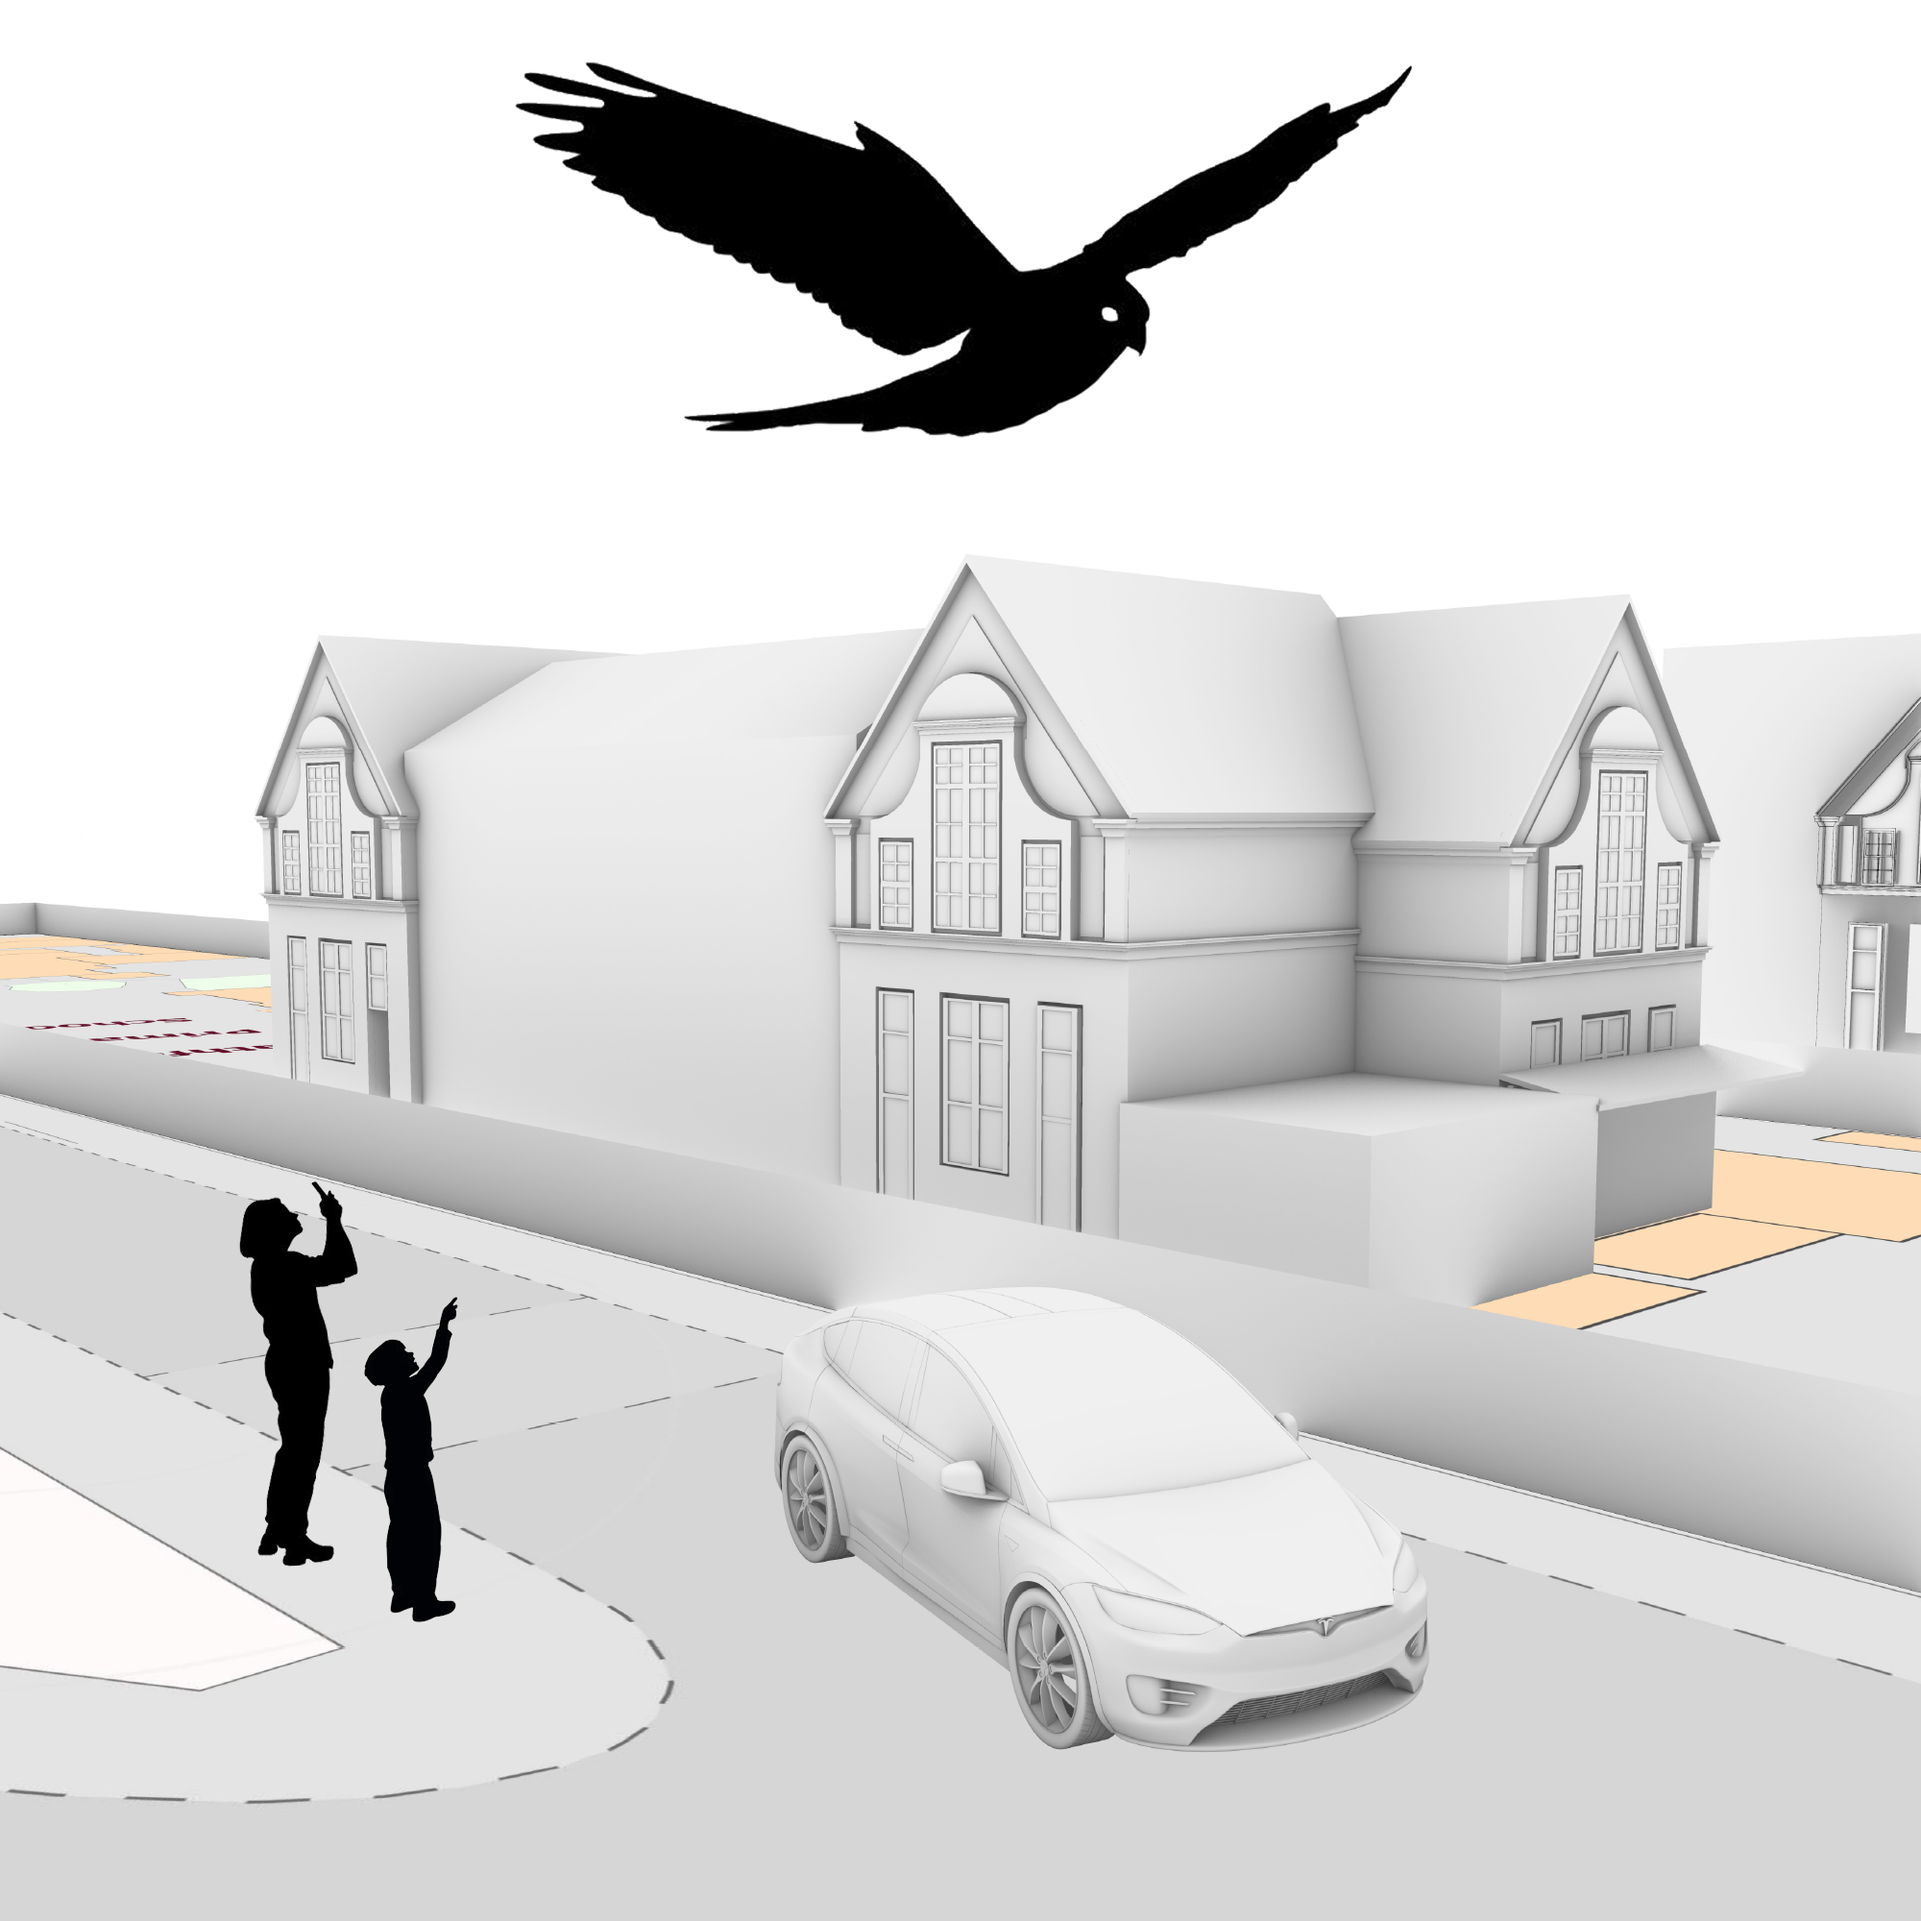
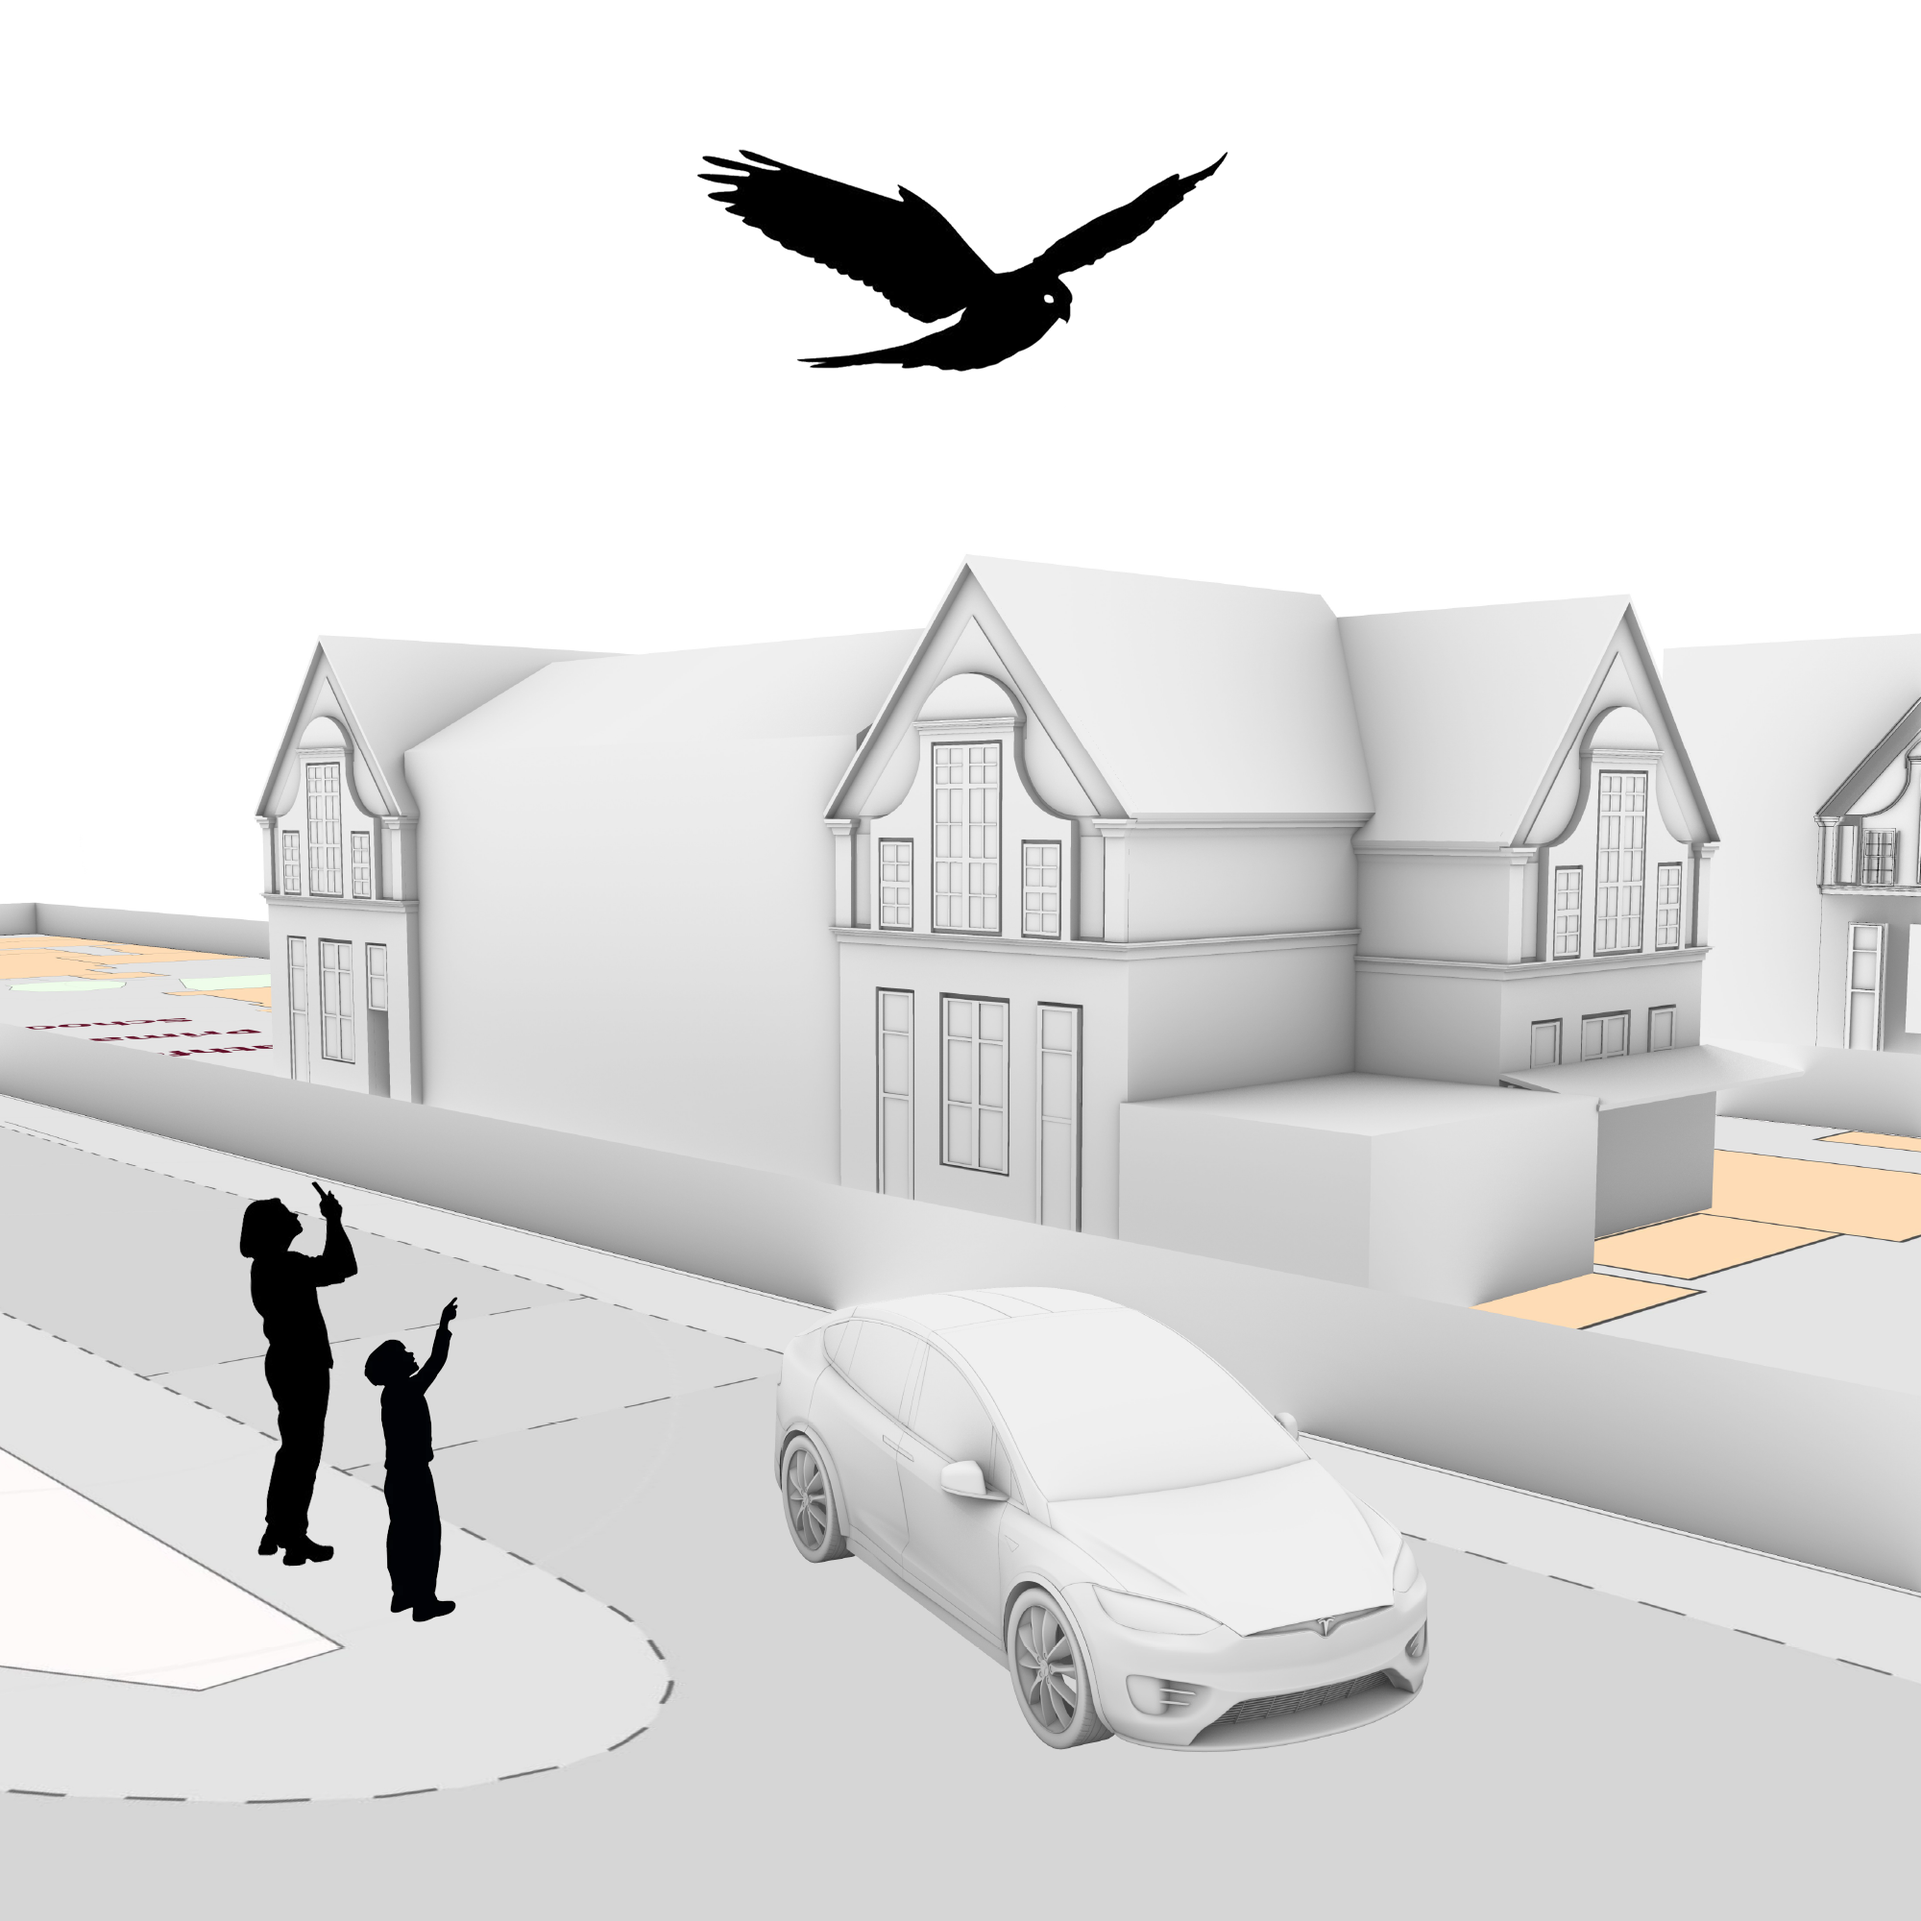
use json file

Changed region(s): [[0.279, 0.031, 0.744, 0.248]]

diff --git a/src/components/Exhibit/index.tsx b/src/components/Exhibit/index.tsx
@@ -1,5 +1,7 @@
 /** @jsxImportSource @emotion/react */
 
+import featuredMusic from "#/data/featuredMusic.json";
+
 import Frame from "#/components/Frame";
 import ArtistBrand from "#/components/ArtistBrand";
 
@@ -11,15 +13,15 @@ const Exhibit = () => {
       <Frame css={styles.frame} />
       <ArtistBrand css={styles.artistBrand} />
       <div css={styles.infoPlaque}>
-        <h2 css={styles.title}>falcons.</h2>
-        <p css={styles.credits}>Prod. SAI</p>
+        <h2 css={styles.title}>{featuredMusic.title}</h2>
+        <p css={styles.credits}>{featuredMusic.credit}</p>
         <p css={styles.infoDetail}>
           <img
             css={styles.infoIcon}
             src={"/info.png"}
             alt={"information icon"}
           />
-          'falcons.' is my latest single in a while and is the lead song to my first ever album dropping on the 27th of March
+          {featuredMusic.description}
         </p>
       </div>
     </div>

diff --git a/src/themes/theme.ts b/src/themes/theme.ts
@@ -39,10 +39,10 @@ export const pictureWidths = {
     ICON_SMALL: "20px",
     ICON_MEDIUM: "50px",
     ICON_LARGE: "75px",
-    PICTURE_0_FLIPPHONE: "200px",
-    PICTURE_1_SMARTPHONE: "250px",
-    PICTURE_2_TABLET: "350px",
-    PICTURE_3_COMPUTER: "400px",
+    PICTURE_0_FLIPPHONE: "140px",
+    PICTURE_1_SMARTPHONE: "200px",
+    PICTURE_2_TABLET: "300px",
+    PICTURE_3_COMPUTER: "350px",
 };
 
 export const fontSizes = {
